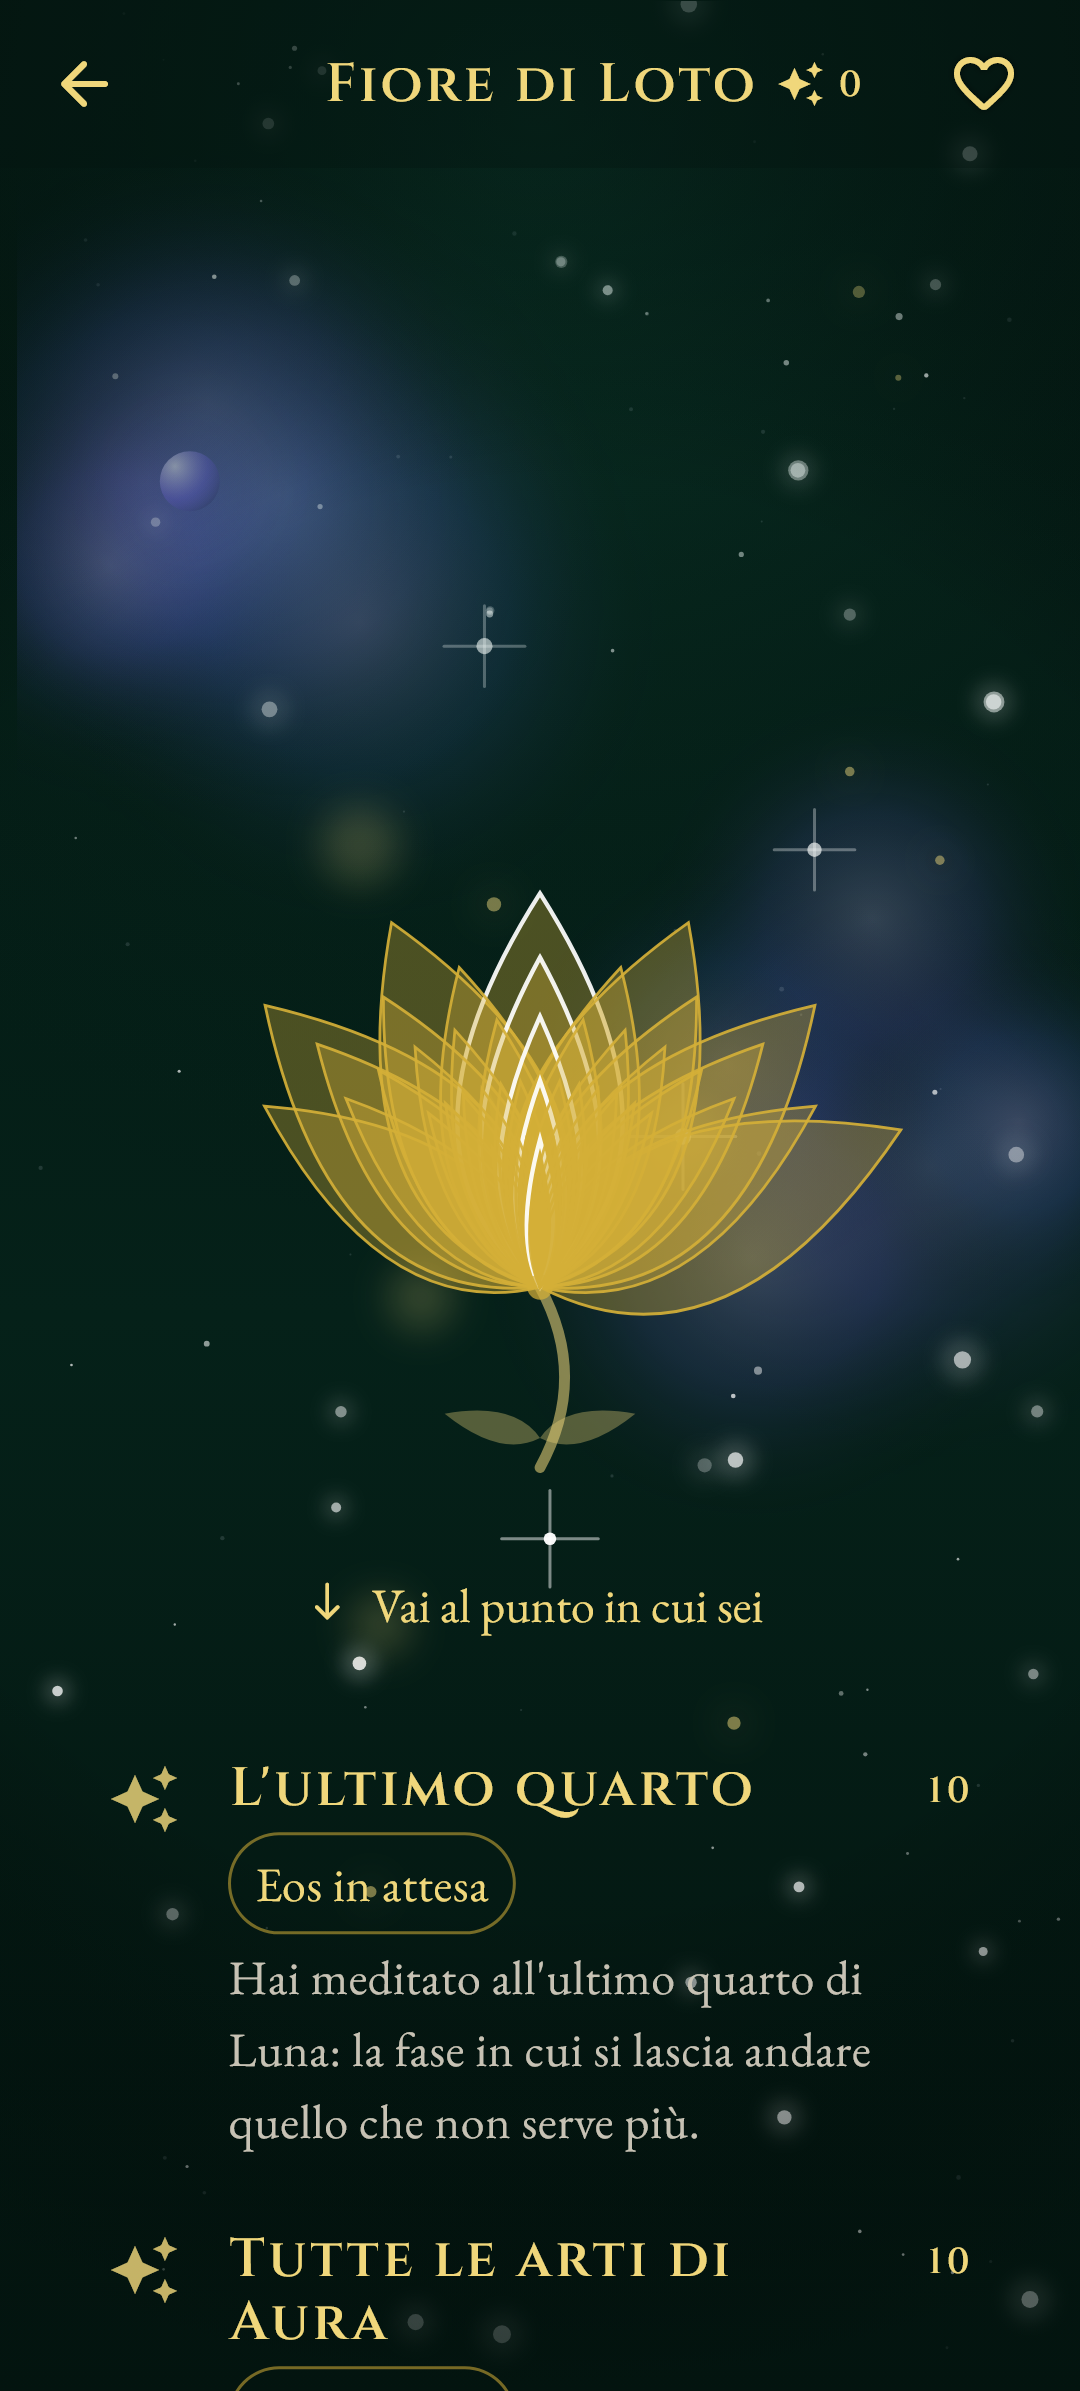
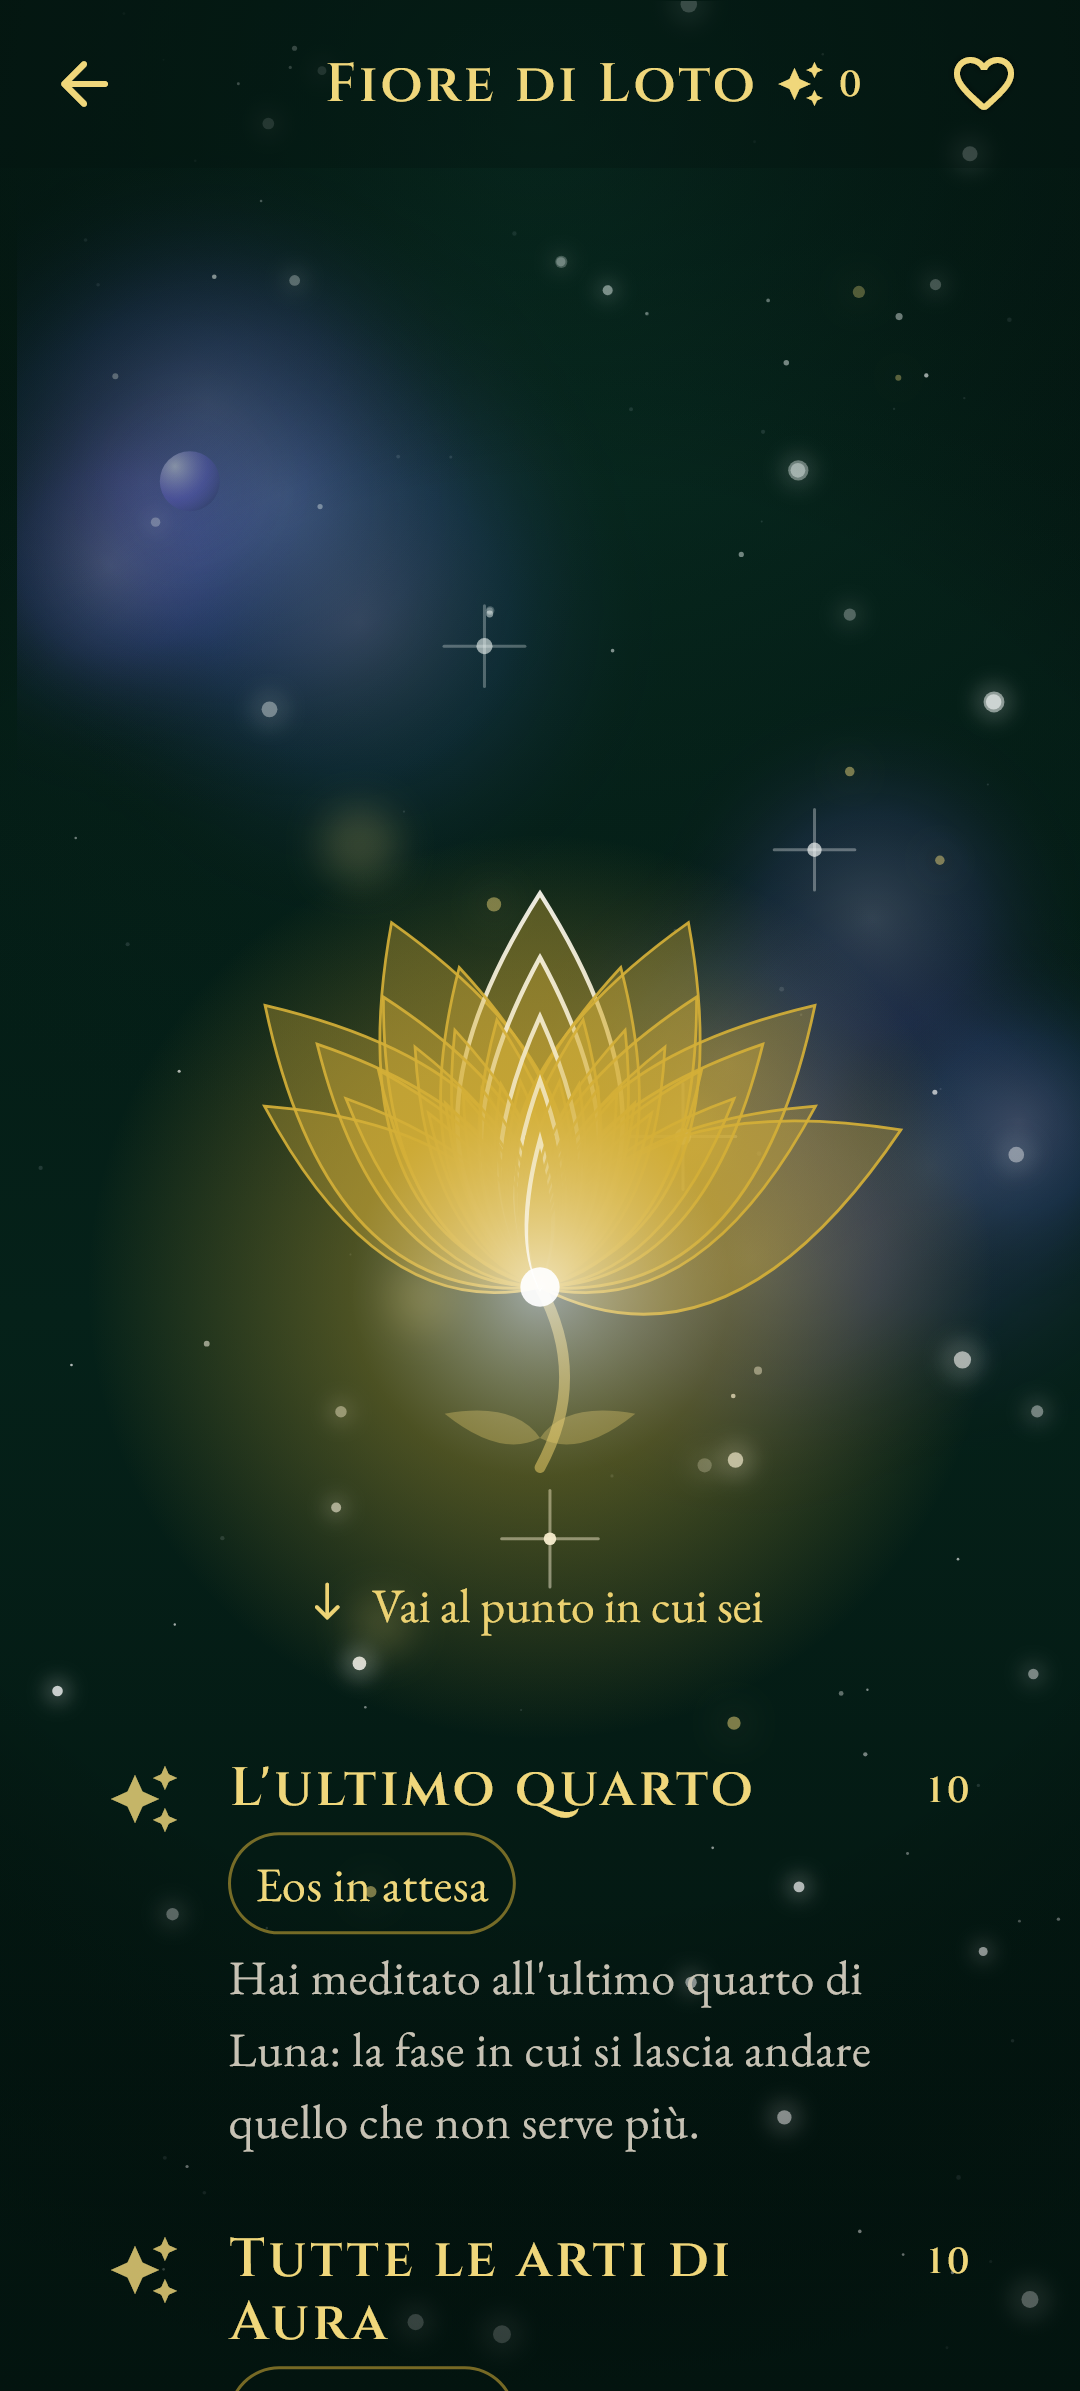
Ordine S voce 02: l'ultimo grande da' alla figura qualcosa che prima non aveva
Era la regola che mancava, e la sua assenza si misurava: da meta' a completa il
Loto cambiava il 3 per cento della propria impronta, cioe' un petalo su cinquanta,
cioe' niente. Sull'Albero era gia' vero senza avere un nome, perche' Keter porta
una corona di luce che le altre Sefirot non hanno, e quella e' il modello.

LOTO: quando il cuore si apre, la luce NASCE DAL CENTRO e si propaga verso i
petali. Il fiore completo non e' un petalo in piu' aperto, e' un fiore acceso.
L'ordine di apertura non si inverte: il cuore si apre per ultimo, perche' e' come
si schiude un loto vero ed e' cio' che dice la riga del Passport.

COSTELLAZIONE: quando l'ultima stella principale si accende, tutta l'ossatura
porta un alone continuo sotto le linee, dipinto PRIMA di loro cosi' e' luce che
esce dalle linee e non vernice sopra: la figura si legge come una cosa sola invece
che come cinquantaquattro segmenti piu' uno.

La misura e' il confronto della figura con SE STESSA: la differenza fra meta' e
completa deve toccare piu' del 45 per cento dell'impronta, cioe' dei pixel che la
figura occupa in tutto, quindi non dipende da quanto e' grande la tela. La prima
stesura della prova confrontava l'ultimo grande con un mini e passava anche a
compimento spento, cioe' non misurava la regola nuova: quella misura e' stata
buttata. Rosso eseguito spegnendo il compimento: il Loto scende al 3 per cento.

Nove anteprime rigenerate e guardate.

Changed region(s): [[0.1528, 0.3714, 0.825, 0.7118], [0.6417, 0.4023, 0.7028, 0.4333]]

diff --git a/lib/features/sigilli/disegno_del_sentiero.dart b/lib/features/sigilli/disegno_del_sentiero.dart
@@ -606,6 +606,16 @@ abstract class _PittoreDelSentiero extends CustomPainter {
 
   bool acceso(PuntoDelSentiero p) => accesi.contains(p.traguardo.id);
 
+  /// LA FIGURA E' COMPIUTA: l'ULTIMO grande e' acceso.
+  ///
+  /// **Ordine S voce 02, la regola che mancava.** L'ultimo grande traguardo deve
+  /// dare alla figura qualcosa che prima non aveva, non un pezzo in piu': un
+  /// petalo su cinquanta non si vede, e infatti da meta' a completo il Loto
+  /// cambiava poco. Sull'Albero era gia' vero senza avere un nome, perche' Keter
+  /// porta una corona di luce che le altre Sefirot non hanno: quella e' il
+  /// modello, e da qui vale per tutti e tre.
+  bool get figuraCompiuta => punti.any((p) => p.eGrande && p.gruppo == 4 && acceso(p));
+
   Offset assoluto(PuntoDelSentiero p, Size s) =>
       Offset(p.dove.dx * s.width, p.dove.dy * s.height);
 
@@ -724,8 +734,30 @@ class PittoreDellaCostellazione extends _PittoreDelSentiero {
   void paint(Canvas tela, Size misura) {
     final c = corto(misura);
 
-    // 1. L'OSSATURA, solo fra stelle accese: la figura si compone.
-    ossatura(tela, misura, GeometriaDelSentiero.ossatura(Sentiero.costellazione));
+    final ossa = GeometriaDelSentiero.ossatura(Sentiero.costellazione);
+
+    // 1. QUANDO L'ULTIMA STELLA PRINCIPALE SI ACCENDE, LA FIGURA SI CHIUDE.
+    //
+    // Ordine S voce 02: prima restava una somma di cinquantaquattro segmenti
+    // piu' uno. Adesso, compiuta, tutta l'ossatura porta un alone continuo
+    // sotto le linee, e a quel punto si legge come UNA cosa e non come tanti
+    // tratti che si toccano. Si dipinge PRIMA delle linee, cosi' e' luce che
+    // esce da loro e non una vernice sopra.
+    if (figuraCompiuta) {
+      final alone = Paint()
+        ..style = PaintingStyle.stroke
+        ..strokeCap = StrokeCap.round
+        ..strokeWidth = c * 0.0175
+        ..color = oro.withValues(alpha: 0.30)
+        ..maskFilter = MaskFilter.blur(BlurStyle.normal, c * 0.012);
+      for (final osso in ossa) {
+        tela.drawLine(assoluto(punti[osso.da], misura),
+            assoluto(punti[osso.a], misura), alone);
+      }
+    }
+
+    // 2. L'OSSATURA, solo fra stelle accese: la figura si compone.
+    ossatura(tela, misura, ossa);
 
     // 2. LE STELLE, dalle piccole alle principali, cosi' le grandi restano
     // sopra e la gerarchia si legge anche dove i punti si avvicinano.
@@ -988,8 +1020,37 @@ class PittoreDelLoto extends _PittoreDelSentiero {
       }
     }
 
-    // 3. IL CUORE del fiore, sempre: e' il punto da cui tutto parte.
+    // 3. QUANDO IL CUORE SI APRE, LA LUCE NASCE DAL CENTRO.
+    //
+    // **Ordine S voce 02, ed e' la ragione per cui il cuore si apre per
+    // ULTIMO**: e' come si schiude un loto vero, e lo dice la riga del Passport,
+    // il loto si schiude quando il respiro ha smesso di essere una decisione. Il
+    // fiore completo non e' un petalo in piu' aperto, e' un fiore ACCESO: la
+    // luce parte dal centro e si propaga verso i petali, e la differenza da
+    // meta' si legge da lontano.
+    if (figuraCompiuta) {
+      final quanto = GeometriaDelSentiero.lunghezzaDelGiro.first * c * 1.15;
+      tela.drawCircle(
+          cuore,
+          quanto,
+          Paint()
+            ..shader = RadialGradient(
+              colors: [
+                Colors.white.withValues(alpha: 0.62),
+                oro.withValues(alpha: 0.34),
+                oro.withValues(alpha: 0.0),
+              ],
+              stops: const [0.0, 0.42, 1.0],
+            ).createShader(Rect.fromCircle(center: cuore, radius: quanto)));
+    }
+
+    // 4. IL CUORE del fiore, sempre: e' il punto da cui tutto parte.
     tela.drawCircle(
-        cuore, c * 0.013, Paint()..color = oro.withValues(alpha: 0.72));
+        cuore,
+        c * (figuraCompiuta ? 0.020 : 0.013),
+        Paint()
+          ..color = figuraCompiuta
+              ? Colors.white.withValues(alpha: 0.92)
+              : oro.withValues(alpha: 0.72));
   }
 }

diff --git a/test/una_figura_sola_test.dart b/test/una_figura_sola_test.dart
@@ -265,6 +265,72 @@ void main() {
     });
   }
 
+  /// QUANTI PIXEL CAMBIANO fra due tele, oltre una soglia di livelli.
+  int quantiCambiano(
+      ({ByteData dati, int larghezza, int altezza}) prima,
+      ({ByteData dati, int larghezza, int altezza}) dopo,
+      {int soglia = 20}) {
+    var quanti = 0;
+    for (var y = 0; y < prima.altezza; y += 2) {
+      for (var x = 0; x < prima.larghezza; x += 2) {
+        final i = (y * prima.larghezza + x) * 4;
+        var scarto = 0;
+        for (var canale = 0; canale < 3; canale++) {
+          final d = (dopo.dati.getUint8(i + canale) -
+                  prima.dati.getUint8(i + canale))
+              .abs();
+          if (d > scarto) scarto = d;
+        }
+        if (scarto > soglia) quanti++;
+      }
+    }
+    return quanti;
+  }
+
+  group('L\'ultimo grande da\' alla figura qualcosa che prima non aveva', () {
+    /// **QUANTE VOLTE l'ultimo grande deve valere piu' di un traguardo normale.**
+    ///
+    /// Il criterio dell'ordine e' che la differenza fra l'anteprima a meta' e
+    /// quella completa si veda in un secondo, senza cercarla. Tradotto in una
+    /// misura: l'ultimo grande deve cambiare molti piu' pixel di quanti ne cambi
+    /// un mini qualunque, e il confronto e' con se stesso invece che con un
+    /// numero assoluto, cosi' la soglia non dipende da quanto e' grande la tela.
+    /// Sei volte: un petalo su cinquanta cambia poche decine di pixel, un fiore
+    /// che si accende ne cambia migliaia.
+    const int quanteVolte = 6;
+
+    for (final sentiero in Sentiero.values) {
+      test('${sentiero.name}: da meta\' a completa la differenza e\' GLOBALE',
+          () async {
+        // **UNA DIFFERENZA CHE SI VEDE IN UN SECONDO E' GLOBALE**: tocca una
+        // buona parte della figura, non solo il pezzo che si e' aggiunto. Si
+        // misura quanti pixel cambiano da meta' a completa, in frazione
+        // dell'IMPRONTA della figura, cioe' dei pixel che la figura occupa in
+        // tutto: il confronto e' con se stessa e non con un numero assoluto,
+        // quindi non dipende da quanto e' grande la tela.
+        final tutti = {for (final t in Sentieri.di(sentiero)) t.id};
+        final meta = {
+          ...Sentieri.miniDi(sentiero).take(25).map((t) => t.id),
+          ...Sentieri.grandiDi(sentiero).take(2).map((t) => t.id),
+        };
+        final buio = await dipingi(sentiero, const {});
+        final aMeta = await dipingi(sentiero, meta);
+        final piena = await dipingi(sentiero, tutti);
+
+        final impronta = quantiCambiano(buio, piena);
+        final differenza = quantiCambiano(aMeta, piena);
+        final quota = differenza / impronta;
+        expect(quota, greaterThan(0.45),
+            reason: 'da meta\' a completa cambia il '
+                '${(quota * 100).toStringAsFixed(0)} per cento dell\'impronta '
+                'della figura: l\'ultimo grande sta aggiungendo un pezzo invece '
+                'di dare alla figura qualcosa che prima non aveva, e la '
+                'differenza va cercata invece di vedersi');
+      });
+    }
+  });
+
+
   group('Dentro il disegno non entra niente di serie', () {
     test('il file del disegno non usa nessuna icona del framework', () {
       final s = File('lib/features/sigilli/disegno_del_sentiero.dart')

diff --git a/docs/ordini/ORDINE_S_MANIFESTO.md b/docs/ordini/ORDINE_S_MANIFESTO.md
@@ -76,6 +76,27 @@ chiusa: committare non e' consegnare.
   - Numeri corretti dopo una prova rossa della voce P.33: col giro esterno a 0,52
     del lato corto i petali estremi uscivano dalla tela, cinquanta pixel sui
     fianchi misurati. Adesso 0,40 e il fiore ci sta dentro.
+  - **L'ULTIMO GRANDE DA' ALLA FIGURA QUALCOSA CHE PRIMA NON AVEVA, non un pezzo
+    in piu'.** Era la regola che mancava, e la sua assenza si misurava: da meta' a
+    completa il Loto cambiava il 3 per cento della propria impronta, cioe' un
+    petalo su cinquanta, cioe' niente. Sull'Albero era gia' vero senza avere un
+    nome, perche' Keter porta una corona di luce che le altre Sefirot non hanno, e
+    quella e' il modello.
+    - LOTO: quando il cuore si apre, **la luce nasce dal centro** e si propaga
+      verso i petali. Il fiore completo non e' un petalo in piu' aperto, e' un
+      fiore ACCESO. **L'ordine di apertura NON si inverte**: il cuore si apre per
+      ultimo, perche' e' come si schiude un loto vero ed e' cio' che dice la riga
+      del Passport, il loto si schiude quando il respiro ha smesso di essere una
+      decisione.
+    - COSTELLAZIONE: quando l'ultima stella principale si accende, tutta
+      l'ossatura porta un alone continuo sotto le linee, e la figura si legge come
+      UNA cosa invece che come cinquantaquattro segmenti piu' uno.
+  - Misura del compimento: la differenza fra l'anteprima a meta' e quella
+    completa deve toccare piu' del 45 per cento dell'IMPRONTA della figura, cioe'
+    dei pixel che la figura occupa in tutto. E' un confronto della figura con se
+    stessa, quindi non dipende da quanto e' grande la tela. Rosso eseguito
+    spegnendo il compimento: il Loto scende al **3 per cento** e la prova cade
+    dicendo che l'ultimo traguardo non sta dando niente.
   - UNA FIGURA SOLA, non cinque figurine: i cinque principali stanno su una
     SPINA e ogni parte cresce da lei con due braccia. I cinque grandi sono le
     stelle che reggono la forma, i cinquanta mini la riempiono.
